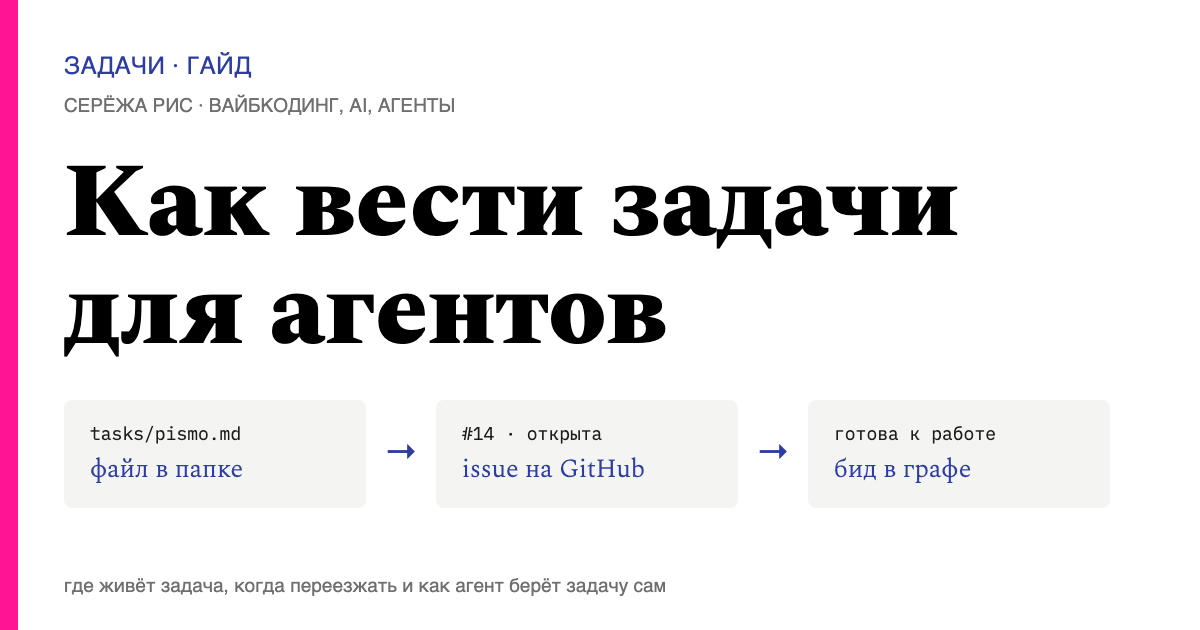
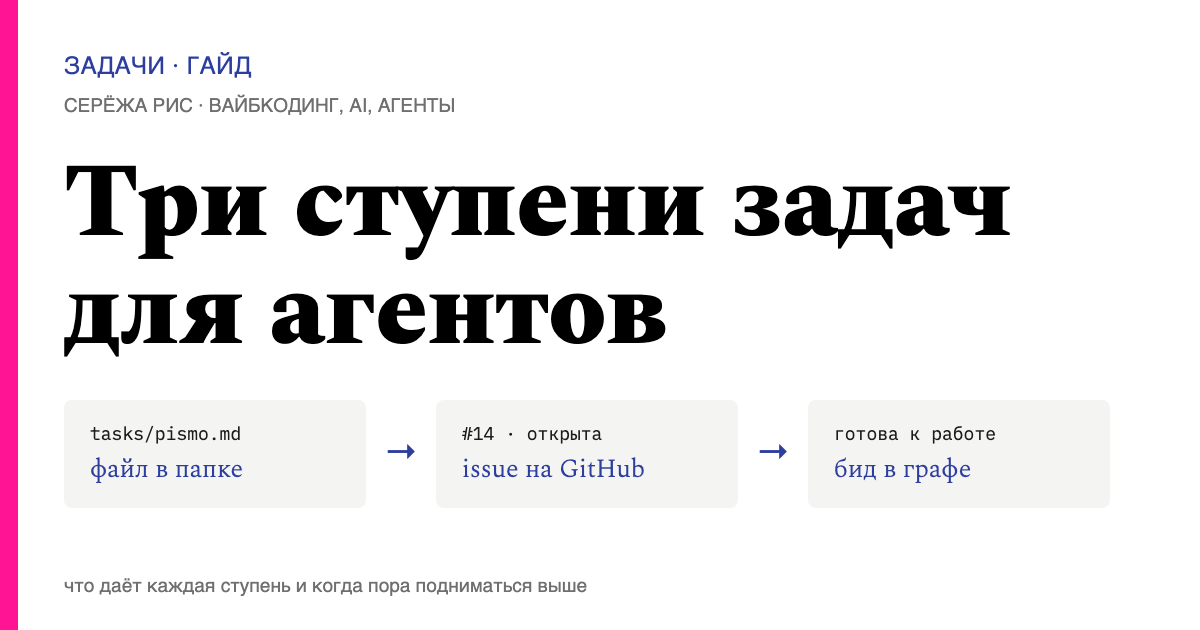
fix(guide): заголовок «Три ступени задач для агентов: файлы, GitHub и граф»
Выбор Риса 09.10 из трёх вариантов. Заголовок страницы, title, превью
ссылки (og, twitter, ld+json), запись standalone и картинка превью.

Changed region(s): [[0.2467, 0.2714, 0.8633, 0.4222], [0.0617, 0.9048, 0.555, 0.9651], [0.0308, 0.2413, 0.2158, 0.4222]]

diff --git a/static/kak-vesti-zadachi-dlya-agentov/index.html b/static/kak-vesti-zadachi-dlya-agentov/index.html
@@ -1,8 +1,8 @@
 <!doctype html>
 <html lang="ru"><head><meta charset="utf-8"><meta name="viewport" content="width=device-width,initial-scale=1">
-<meta name="updated" content="2026-10-08"><title>Задачи для агентов: файлы, GitHub и граф | Сережа Рис</title>
+<meta name="updated" content="2026-10-08"><title>Три ступени задач для агентов: файлы, GitHub и граф | Сережа Рис</title>
 <meta name="description" content="Гайд: три ступени задач для агентов: файлы в папке отдела, GitHub и граф задач. Что это, когда хватает, что нужно и как завести каждую.">
-<meta property="og:type" content="article"><meta property="og:title" content="Задачи для агентов: файлы, GitHub и граф"><meta property="og:description" content="Гайд: три ступени задач для агентов: файлы, GitHub и граф. Что это, когда хватает и как завести каждую."><meta property="og:image" content="https://sereja.tech/kak-vesti-zadachi-dlya-agentov/img/og-preview.png"><meta property="og:image:width" content="1200"><meta property="og:image:height" content="630"><meta name="twitter:image" content="https://sereja.tech/kak-vesti-zadachi-dlya-agentov/img/og-preview.png">
+<meta property="og:type" content="article"><meta property="og:title" content="Три ступени задач для агентов: файлы, GitHub и граф"><meta property="og:description" content="Гайд: три ступени задач для агентов: файлы, GitHub и граф. Что это, когда хватает и как завести каждую."><meta property="og:image" content="https://sereja.tech/kak-vesti-zadachi-dlya-agentov/img/og-preview.png"><meta property="og:image:width" content="1200"><meta property="og:image:height" content="630"><meta name="twitter:image" content="https://sereja.tech/kak-vesti-zadachi-dlya-agentov/img/og-preview.png">
 <link rel="preconnect" href="https://fonts.googleapis.com"><link rel="preconnect" href="https://fonts.gstatic.com" crossorigin><link href="https://fonts.googleapis.com/css2?family=Spectral:ital,wght@0,200;0,300;0,400;0,500;0,800;1,200;1,300&family=Jost:wght@400;500;600&family=Poiret+One&family=IBM+Plex+Mono:wght@300;400&display=swap" rel="stylesheet"><style>
 :root{--ink:#000;--blue:#2d3e9f;--pink:#ff1493;--pinkt:#c4006a;--line:#e3e3e3;--grey:#6f6f6f;--paper:#f4f4f2;--ph:#efefef;--col:720px;--wide:1000px;
 --serif:"Spectral",Georgia,serif;--sans:"Jost","Futura","Century Gothic",sans-serif;--logo:"Poiret One","Jost",sans-serif;--mono:"IBM Plex Mono",Menlo,monospace}
@@ -137,8 +137,8 @@ pre.list{margin:0 0 8px;background:var(--paper);padding:16px 18px;font:400 14px/
 .video{margin:0 0 44px;width:min(960px,100vw - 32px);position:relative;left:50%;transform:translateX(-50%)}
 .video video{width:100%;height:auto;aspect-ratio:16/9;background:#000}
 .video figcaption{font:400 10px/14px var(--sans);text-transform:uppercase;letter-spacing:.1em;color:var(--grey);margin-top:10px;text-align:center}
-</style><link rel="canonical" href="https://sereja.tech/kak-vesti-zadachi-dlya-agentov/"><meta name="author" content="Сережа Рис"><link rel="icon" type="image/svg+xml" href="/favicon.svg"><link rel="apple-touch-icon" href="/apple-touch-icon.png"><meta name="theme-color" content="#ffffff"><link rel="alternate" type="application/rss+xml" href="https://sereja.tech/blog/index.xml" title="Блог"><meta property="og:url" content="https://sereja.tech/kak-vesti-zadachi-dlya-agentov/"><meta property="og:site_name" content="Сережа Рис"><meta property="og:locale" content="ru_RU"><meta property="og:image:type" content="image/png"><meta property="og:image:alt" content="Три ступени задач для агентов: файл в папке отдела, issue на GitHub и бид в графе задач"><meta property="article:published_time" content="2026-10-08T12:00:00+03:00"><meta property="article:modified_time" content="2026-10-08T23:00:00+03:00"><meta property="article:author" content="Сережа Рис"><meta property="article:section" content="Гайды"><meta property="article:tag" content="задачи"><meta property="article:tag" content="агенты"><meta property="article:tag" content="GitHub Issues"><meta property="article:tag" content="beads"><meta property="article:tag" content="Personal Corp"><meta name="twitter:card" content="summary_large_image"><meta name="twitter:site" content="@riiiiiiiiss"><meta name="twitter:creator" content="@riiiiiiiiss"><meta name="twitter:title" content="Задачи для агентов: файлы, GitHub и граф"><meta name="twitter:description" content="Гайд: три ступени задач для агентов: файлы, GitHub и граф. Что это, когда хватает и как завести каждую."><meta name="twitter:image:alt" content="Три ступени задач для агентов: файл в папке отдела, issue на GitHub и бид в графе задач"><script type="application/ld+json">{"@context": "https://schema.org", "@type": "BlogPosting", "headline": "Задачи для агентов: файлы, GitHub и граф", "description": "Гайд: три ступени задач для агентов: файлы в папке отдела, GitHub и граф задач. Что это, когда хватает, что нужно и как завести каждую.", "image": "https://sereja.tech/kak-vesti-zadachi-dlya-agentov/img/og-preview.png", "inLanguage": "ru-RU", "datePublished": "2026-10-08", "dateModified": "2026-10-08", "mainEntityOfPage": {"@type": "WebPage", "@id": "https://sereja.tech/kak-vesti-zadachi-dlya-agentov/"}, "author": {"@type": "Person", "name": "Сережа Рис", "url": "https://sereja.tech/", "sameAs": ["https://t.me/ris_ai", "https://www.youtube.com/@serejaris", "https://x.com/riiiiiiiiss", "https://github.com/serejaris"]}, "publisher": {"@type": "Person", "name": "Сережа Рис", "url": "https://sereja.tech/"}, "keywords": ["задачи", "агенты", "GitHub Issues", "GitHub Projects", "beads", "Personal Corp", "Claude Code", "Codex"]}</script><script defer src="/analytics.js"></script></head>
-<body class="a" id="top"><div class="bar" id="bar"><a class="mark" href="https://sereja.tech/">СР</a><nav class=""><a href="#primer">Пример</a><a href="#osnova">Основа</a><a href="#faily">Файлы</a><a href="#github">GitHub</a><a href="#graf">Граф</a><a href="#principy">Принципы</a><a href="#ssylki">Ссылки</a></nav><nav class="barlinks"><a href="https://sereja.tech/">Сайт</a><a href="https://sereja.tech/blog/">Блог</a><a href="https://t.me/ris_ai">Telegram</a><a href="https://www.youtube.com/@serejaris">YouTube</a><a href="https://t.me/vibecod3rs">Чат вайбкодеров</a></nav></div><header class="mast"><a class="logo" href="https://sereja.tech/">СЕРЁЖА РИС</a><div class="tagline">Вайбкодинг · AI · агенты</div><nav class="site"><a href="https://sereja.tech/">Сайт</a><a href="https://sereja.tech/blog/">Блог</a><a href="https://t.me/ris_ai">Telegram</a><a href="https://www.youtube.com/@serejaris">YouTube</a><a href="https://t.me/vibecod3rs">Чат вайбкодеров</a></nav><nav class="nav toc"><a href="#primer">Пример</a><a href="#osnova">Основа</a><a href="#faily">Файлы</a><a href="#github">GitHub</a><a href="#graf">Граф</a><a href="#principy">Принципы</a><a href="#ssylki">Ссылки</a></nav></header><div class="head"><div class="rubric">Гайды <span>•</span> <span>Задачи</span></div><div class="kicker">Задачи:</div><h1>Как вести задачи для агентов</h1><p class="lead">Задачи для агентов живут на трёх ступенях: файлы в папке отдела, GitHub и граф задач. Разбираю каждую: что это, когда её хватает, что для неё нужно и как её завести.</p></div>
+</style><link rel="canonical" href="https://sereja.tech/kak-vesti-zadachi-dlya-agentov/"><meta name="author" content="Сережа Рис"><link rel="icon" type="image/svg+xml" href="/favicon.svg"><link rel="apple-touch-icon" href="/apple-touch-icon.png"><meta name="theme-color" content="#ffffff"><link rel="alternate" type="application/rss+xml" href="https://sereja.tech/blog/index.xml" title="Блог"><meta property="og:url" content="https://sereja.tech/kak-vesti-zadachi-dlya-agentov/"><meta property="og:site_name" content="Сережа Рис"><meta property="og:locale" content="ru_RU"><meta property="og:image:type" content="image/png"><meta property="og:image:alt" content="Три ступени задач для агентов: файл в папке отдела, issue на GitHub и бид в графе задач"><meta property="article:published_time" content="2026-10-08T12:00:00+03:00"><meta property="article:modified_time" content="2026-10-09T03:00:00+03:00"><meta property="article:author" content="Сережа Рис"><meta property="article:section" content="Гайды"><meta property="article:tag" content="задачи"><meta property="article:tag" content="агенты"><meta property="article:tag" content="GitHub Issues"><meta property="article:tag" content="beads"><meta property="article:tag" content="Personal Corp"><meta name="twitter:card" content="summary_large_image"><meta name="twitter:site" content="@riiiiiiiiss"><meta name="twitter:creator" content="@riiiiiiiiss"><meta name="twitter:title" content="Три ступени задач для агентов: файлы, GitHub и граф"><meta name="twitter:description" content="Гайд: три ступени задач для агентов: файлы, GitHub и граф. Что это, когда хватает и как завести каждую."><meta name="twitter:image:alt" content="Три ступени задач для агентов: файл в папке отдела, issue на GitHub и бид в графе задач"><script type="application/ld+json">{"@context": "https://schema.org", "@type": "BlogPosting", "headline": "Три ступени задач для агентов: файлы, GitHub и граф", "description": "Гайд: три ступени задач для агентов: файлы в папке отдела, GitHub и граф задач. Что это, когда хватает, что нужно и как завести каждую.", "image": "https://sereja.tech/kak-vesti-zadachi-dlya-agentov/img/og-preview.png", "inLanguage": "ru-RU", "datePublished": "2026-10-08", "dateModified": "2026-10-08", "mainEntityOfPage": {"@type": "WebPage", "@id": "https://sereja.tech/kak-vesti-zadachi-dlya-agentov/"}, "author": {"@type": "Person", "name": "Сережа Рис", "url": "https://sereja.tech/", "sameAs": ["https://t.me/ris_ai", "https://www.youtube.com/@serejaris", "https://x.com/riiiiiiiiss", "https://github.com/serejaris"]}, "publisher": {"@type": "Person", "name": "Сережа Рис", "url": "https://sereja.tech/"}, "keywords": ["задачи", "агенты", "GitHub Issues", "GitHub Projects", "beads", "Personal Corp", "Claude Code", "Codex"]}</script><script defer src="/analytics.js"></script></head>
+<body class="a" id="top"><div class="bar" id="bar"><a class="mark" href="https://sereja.tech/">СР</a><nav class=""><a href="#primer">Пример</a><a href="#osnova">Основа</a><a href="#faily">Файлы</a><a href="#github">GitHub</a><a href="#graf">Граф</a><a href="#principy">Принципы</a><a href="#ssylki">Ссылки</a></nav><nav class="barlinks"><a href="https://sereja.tech/">Сайт</a><a href="https://sereja.tech/blog/">Блог</a><a href="https://t.me/ris_ai">Telegram</a><a href="https://www.youtube.com/@serejaris">YouTube</a><a href="https://t.me/vibecod3rs">Чат вайбкодеров</a></nav></div><header class="mast"><a class="logo" href="https://sereja.tech/">СЕРЁЖА РИС</a><div class="tagline">Вайбкодинг · AI · агенты</div><nav class="site"><a href="https://sereja.tech/">Сайт</a><a href="https://sereja.tech/blog/">Блог</a><a href="https://t.me/ris_ai">Telegram</a><a href="https://www.youtube.com/@serejaris">YouTube</a><a href="https://t.me/vibecod3rs">Чат вайбкодеров</a></nav><nav class="nav toc"><a href="#primer">Пример</a><a href="#osnova">Основа</a><a href="#faily">Файлы</a><a href="#github">GitHub</a><a href="#graf">Граф</a><a href="#principy">Принципы</a><a href="#ssylki">Ссылки</a></nav></header><div class="head"><div class="rubric">Гайды <span>•</span> <span>Задачи</span></div><div class="kicker">Задачи:</div><h1>Три ступени задач для агентов: файлы, GitHub и граф</h1><p class="lead">Задачи для агентов живут на трёх ступенях: файлы в папке отдела, GitHub и граф задач. Разбираю каждую: что это, когда её хватает, что для неё нужно и как её завести.</p></div>
 <div class="meta">8 октября 2026 · гайд обновляется</div>
 <article class="body">
 
